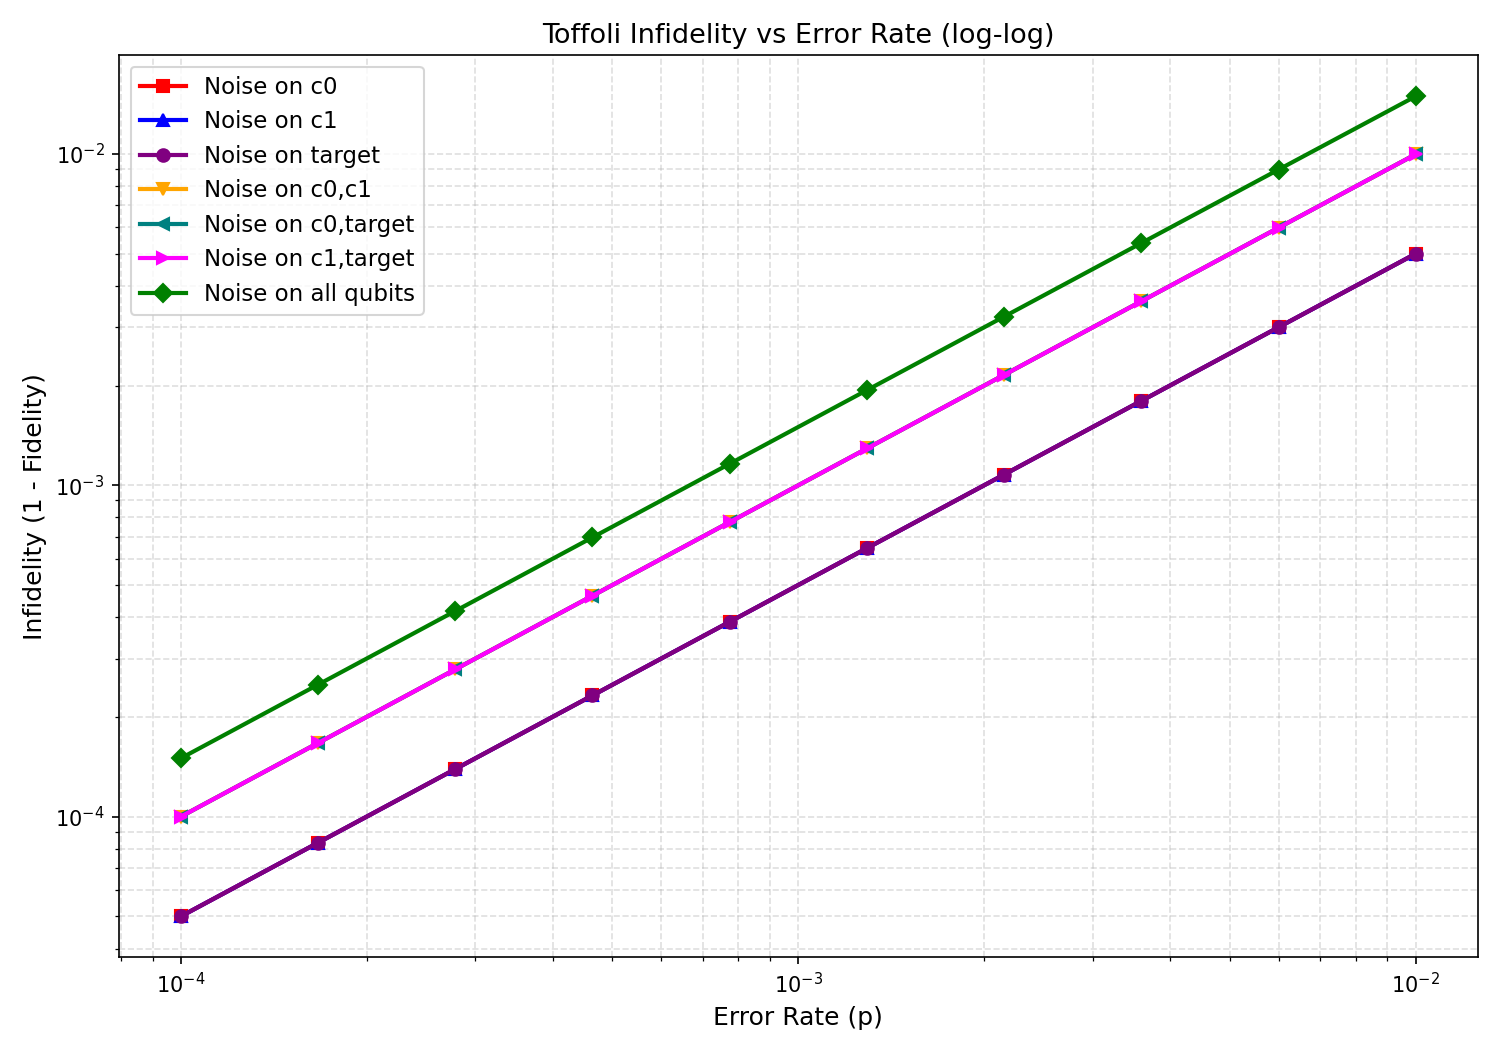
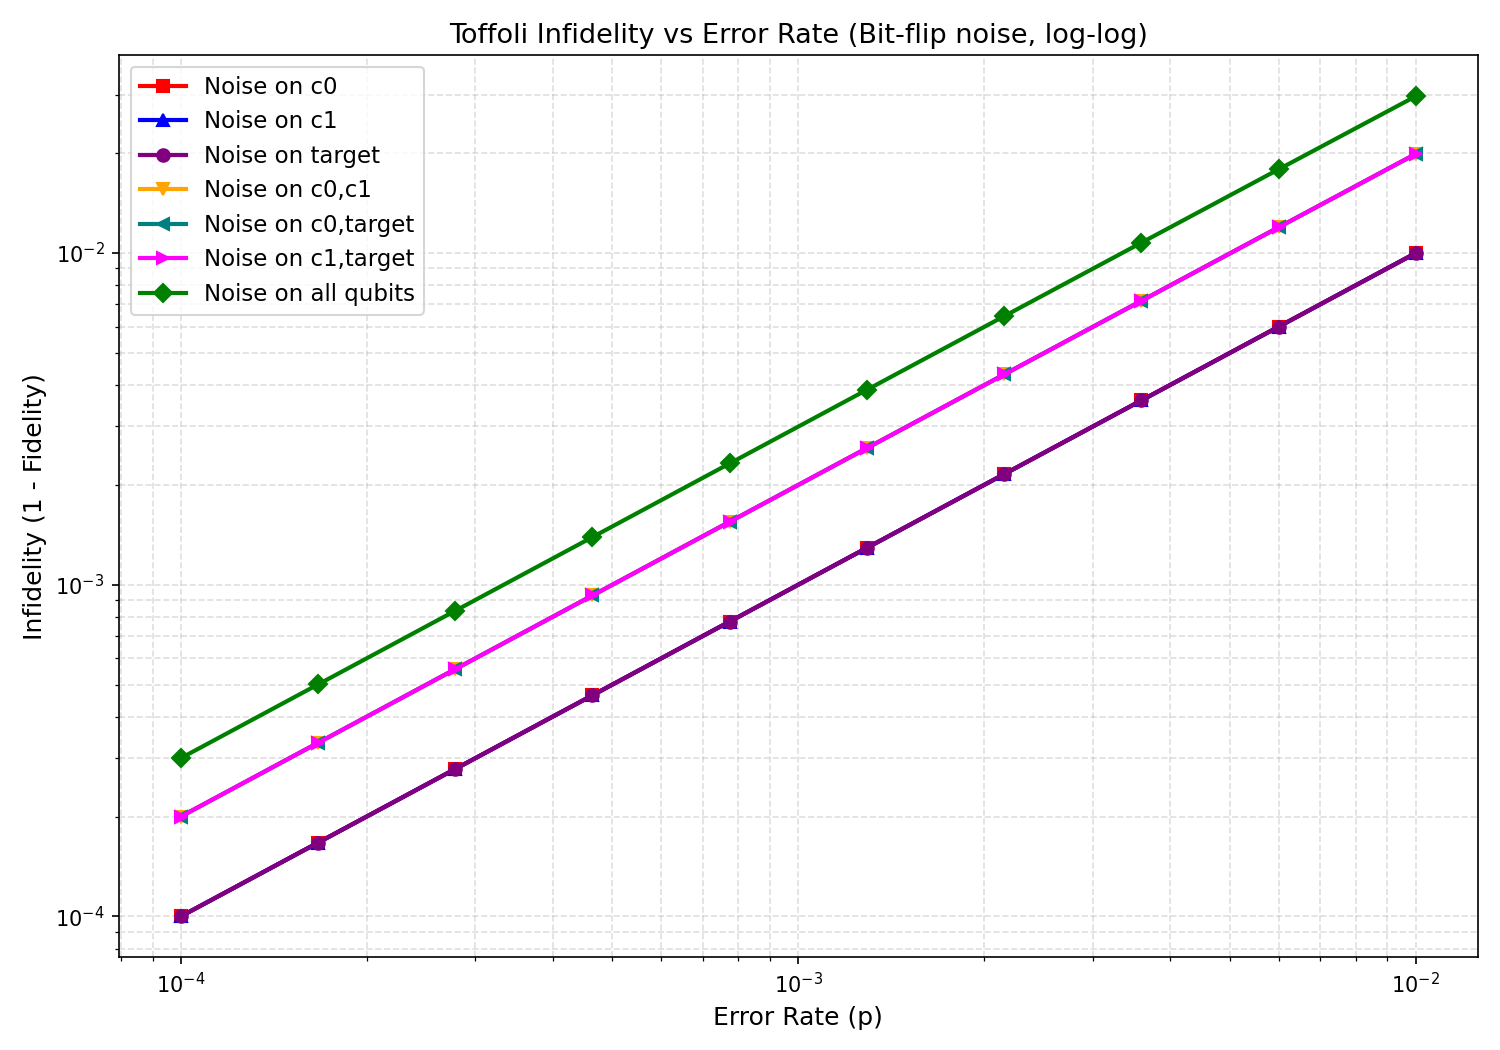
add noise channel before in separate branch

diff --git a/exp_CNOT.py b/exp_CNOT.py
@@ -81,30 +81,9 @@ def create_noise_model(error_rate: float, noisy_qubits: list) -> NoiseModel:
     # Single-qubit bit-flip error: I with prob 1-p, X with prob p
     single_qubit_error = pauli_error([('I', 1 - p), ('X', p)])
 
-    # Add single-qubit errors to specified qubits for common single-qubit gates
+    # Add single-qubit errors to specified qubits on explicit pre-gate identity channels
     for qubit in noisy_qubits:
-        noise_model.add_quantum_error(single_qubit_error, ['h', 'x', 'y', 'z'], [qubit])
-
-    # Two-qubit error for the CNOT between qubit 0 and 1.
-    # Determine per-qubit flip probabilities depending on whether each
-    # qubit is marked noisy.
-    p0 = p if 0 in noisy_qubits else 0.0
-    p1 = p if 1 in noisy_qubits else 0.0
-
-    probs_II = (1 - p0) * (1 - p1)
-    probs_XI = p0 * (1 - p1)
-    probs_IX = (1 - p0) * p1
-    probs_XX = p0 * p1
-
-    two_qubit_error = pauli_error([
-        ('II', probs_II),
-        ('XI', probs_XI),
-        ('IX', probs_IX),
-        ('XX', probs_XX),
-    ])
-
-    # Attach two-qubit error to the CNOT gate (0 -> 1)
-    noise_model.add_quantum_error(two_qubit_error, ['cx'], [0, 1])
+        noise_model.add_quantum_error(single_qubit_error, ['id'], [qubit])
 
     return noise_model
 
@@ -158,6 +137,12 @@ def calculate_cnot_fidelity(control_state: str = '0', target_state: str = '0',
         qc_noisy.x(0)
     if target_state == '1':
         qc_noisy.x(1)
+
+    # Apply pre-gate identity operations on noisy qubits so the noise channel acts before the CNOT
+    if noise_model is not None:
+        qc_noisy.id(0)
+        qc_noisy.id(1)
+
     qc_noisy.cx(0, 1)
     # Request that the Aer simulator returns the final density matrix
     try:

diff --git a/exp_Toffoli.py b/exp_Toffoli.py
@@ -48,24 +48,10 @@ def create_noise_model(error_rate: float, noisy_qubits: list) -> NoiseModel:
     noise_model = NoiseModel()
     p = float(error_rate)
 
-    # Single-qubit bit-flip error
+    # Single-qubit bit-flip error on explicit identity operations before the CCX
     single = pauli_error([('I', 1 - p), ('X', p)])
     for q in noisy_qubits:
-        noise_model.add_quantum_error(single, ['h', 'x', 'y', 'z'], [q])
-
-    # Prepare two-qubit Pauli errors for all pairs used in Toffoli decompositions
-    pairs = [(0,1), (0,2), (1,2)]
-    for a,b in pairs:
-        pa = p if a in noisy_qubits else 0.0
-        pb = p if b in noisy_qubits else 0.0
-        probs = {
-            'II': (1-pa)*(1-pb),
-            'XI': pa*(1-pb),
-            'IX': (1-pa)*pb,
-            'XX': pa*pb,
-        }
-        two = pauli_error([(k, v) for k,v in probs.items()])
-        noise_model.add_quantum_error(two, ['cx'], [a, b])
+        noise_model.add_quantum_error(single, ['id'], [q])
 
     return noise_model
 
@@ -101,6 +87,11 @@ def calculate_toffoli_fidelity(c0_state: str, c1_state: str, target_state: str,
         qc_noisy.x(1)
     if target_state == '1':
         qc_noisy.x(2)
+
+    # Apply pre-gate identity operations on all qubits, allowing the noise channel to act before CCX
+    qc_noisy.id(0)
+    qc_noisy.id(1)
+    qc_noisy.id(2)
     qc_noisy.ccx(0, 1, 2)
     try:
         qc_noisy.save_density_matrix()